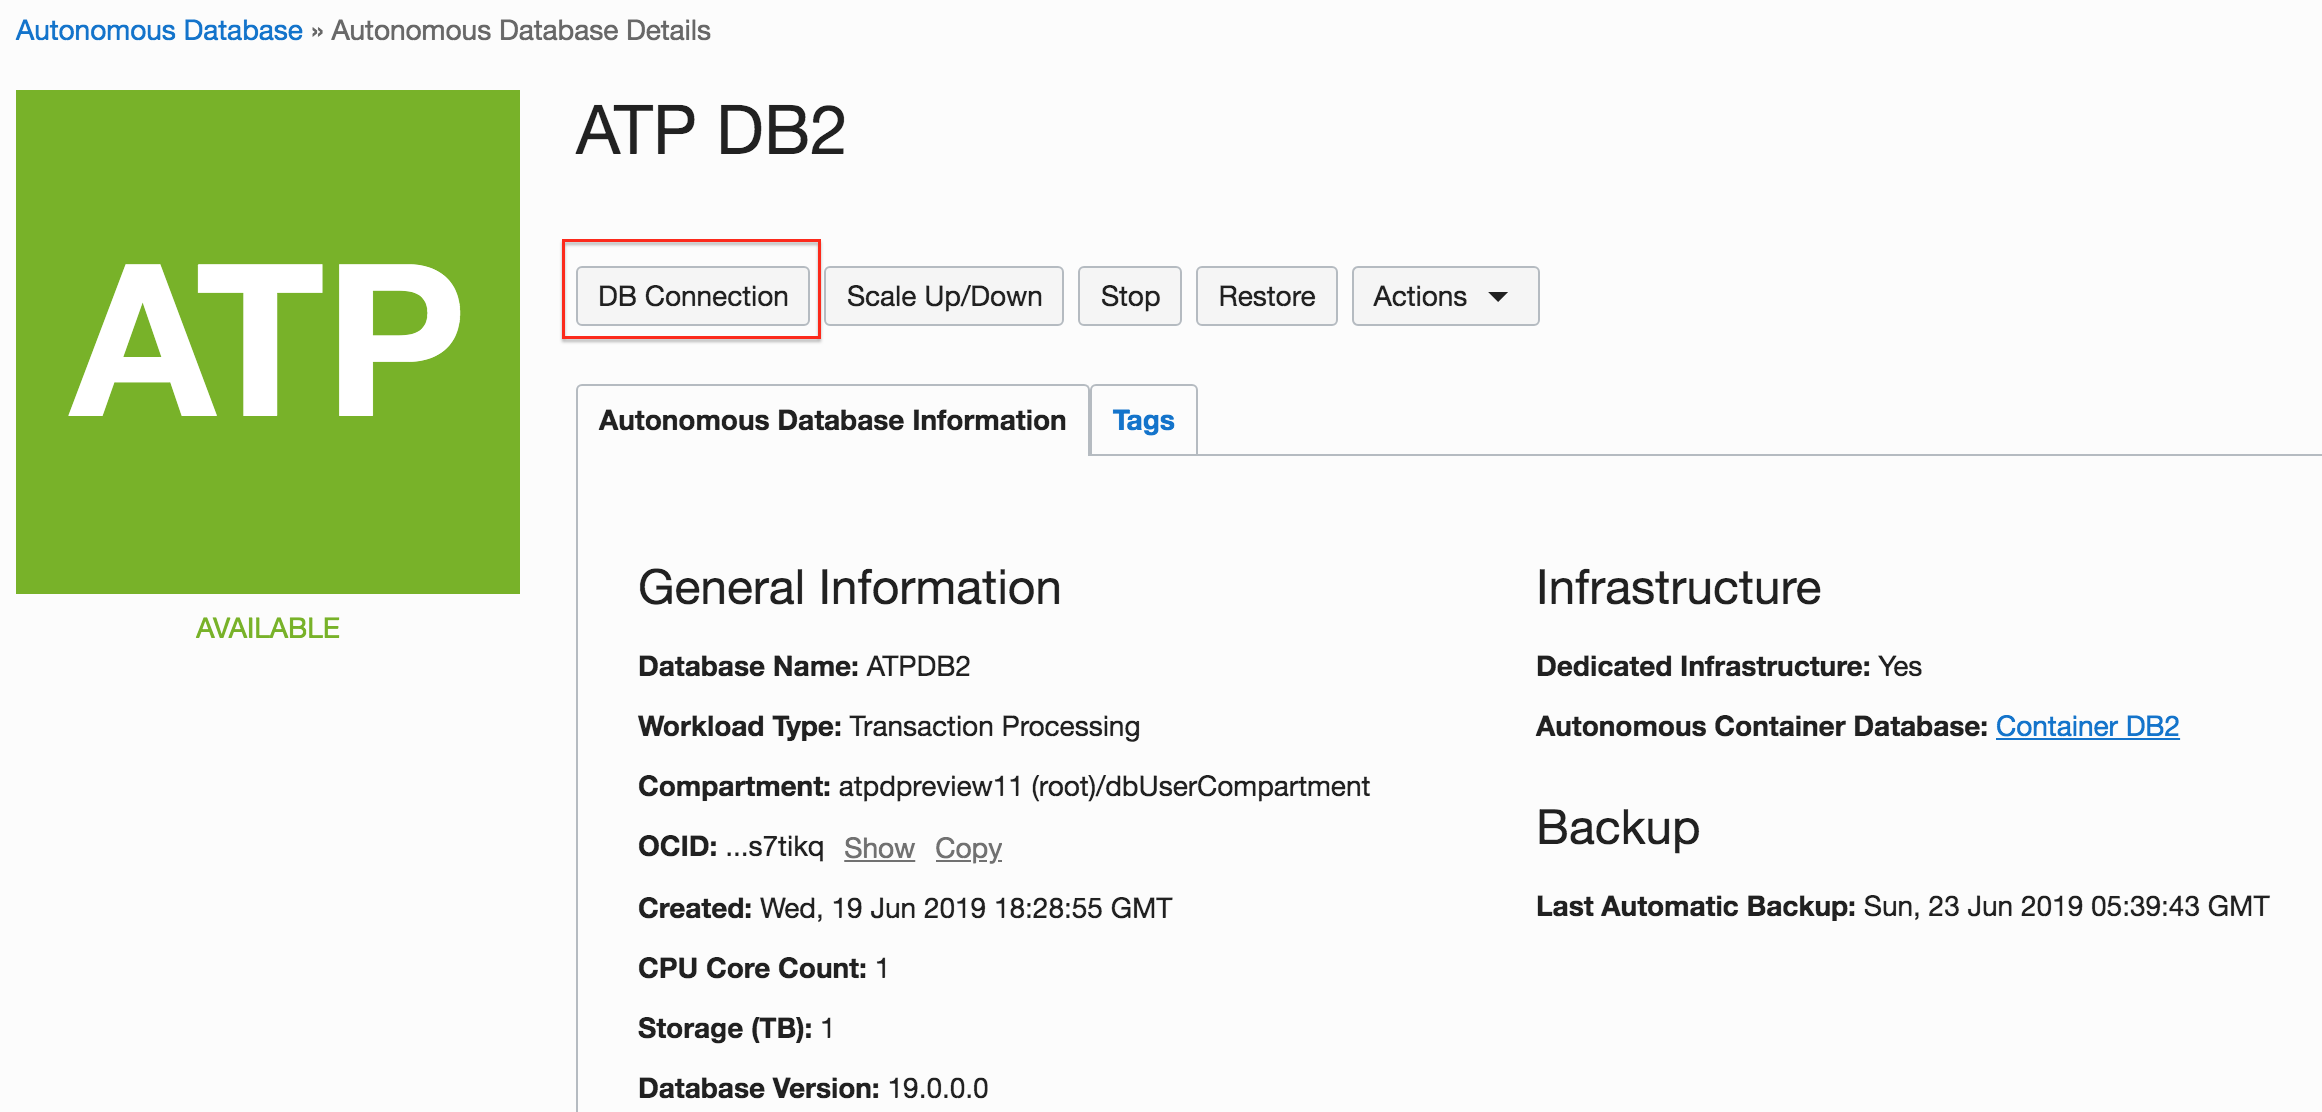
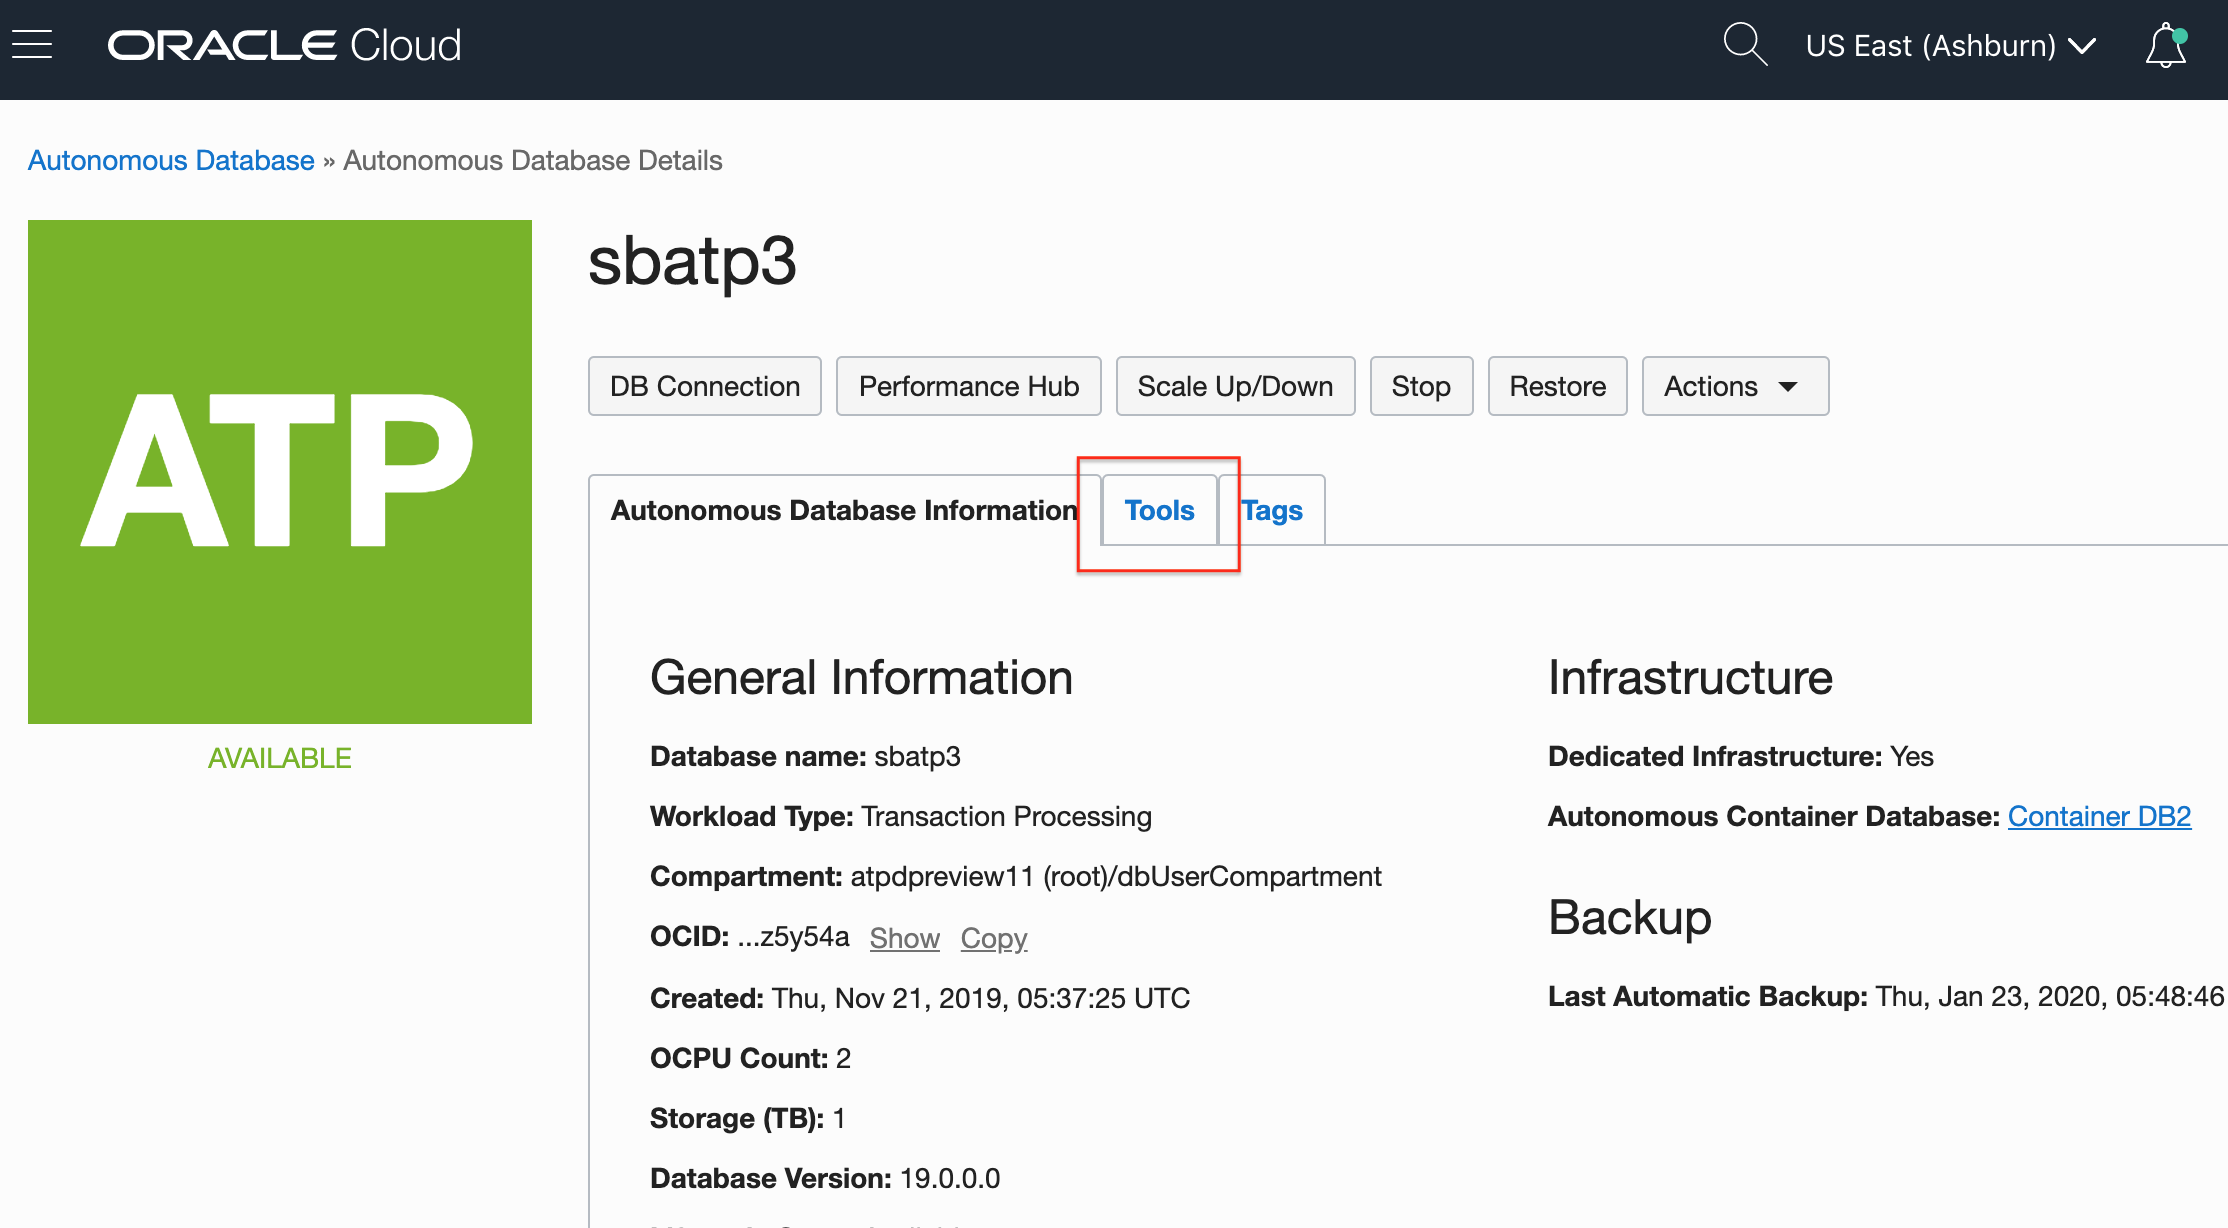
Updates

diff --git a/CNS_slack.md b/CNS_slack.md
@@ -20,7 +20,7 @@ To **log issues**, click [here](https://github.com/oracle/learning-library/issue
 As an database developer or adminstrator,
 - Learn how to set up autonomous database event topics
 - Subscribe to database events via email and SMS
-
+- Setup a Slack channel to receive ONS notifications
 
 
 ## Required Artifacts
@@ -80,14 +80,58 @@ Scroll down to select the Action type for this event and pick Notifications and 
 
 Thats it! To test your notification setup, create an autonomous database service instance as explained in Lab 4.
 
+### **Setup a Slack channel to receive event notificationss**
 
+Lets see how we can setup group notifications to a slack channel. First you would need to get a webhooks URL to your slack channel.
+
+Sign into your slack workspace. If you don't have done, you can get one for free for the purposes of this lab at https://slack.com
+
+![](./images/ONS/slack1.png)
+
+
+
+
+Once signed in, create a slack channel to receive ADB event notifications
+
+![](./images/ONS/slack_channel.png)
+
+Next, lets buid a slack app that can receive notifications from OCI using a webhooks URL and pass it on to the channel we created. Open https://api.slack.com/apps in your browser
+
+![](./images/ONS/slack_app.png)
+
+Provide a name and select a slack workspace. If you do not have one, click 'Sign into a different workspace' and scroll down to the bottom to access link to 'Create a new workspace'
+
+Once you click 'Create App', on the application information page, click on the 'Incoming Webhooks' tile and activate webhooks as shown below
+![](./images/ONS/webhooks1.png)
+![](./images/ONS/webhooks2.png)
+
+Once activated, scroll down and hit the 'Add New Webhook to Workspace' button
+![](./images/ONS/webhooks3.png)
+
+Next, pick a channel for the app to post to - 
+![](./images/ONS/webhooks4.png)
+
+Confirm, and scroll down to copy the Webhooks URL for your workspace. You will need to provide this in the OCI notification setup page. 
+
+![](./images/ONS/webhook_url.png)
+
+Copy the URL and navigate to the OCI Subscriptions page once again. On the 'Create Subscription' page, select 'Slack' as protocol, and paste the webhook URL for your slack workspace. Scroll down and hit 'Create'
+
+![](./images/ONS/webhook5.png)
+
+OCI Notification Service will then send a confirmation URL to your slack channel. Go back to slack and click the link to confirm your subscription.
+
+![](./images/ONS/webhook6.png)
+
+That is it! Try creating another ADB instance and receive notifications to this slack channel.
 
 <table>
 <tr><td class="td-logo">
 
 [![](images/obe_tag.png)](#)</td>
 <td class="td-banner">
-### Congratulations! You successfully learnt to create DB event subscriptions and setup notifications!
+### Congratulations! You successfully learnt to create DB event subscriptions and setup multi-channel notifications!
+
 
 
 

diff --git a/SQLDevWeb.md b/SQLDevWeb.md
@@ -39,11 +39,9 @@ Login to your Oracle Cloud Infrastructure account and navigate to the console pa
 
 ![access_db_console](./images/1000/access_db_console.png)
 
-Navigate to the database details page and click the 'DB Connection' button
+Navigate to the database details page and on the 'Tools' tab you will find the 'Open SQL Developer Web' button that would lead you to the SQL Developer Web access URL as shown below
 
-![db_connection](./images/1000/db_connection.png)
-
-On the 'Database Connection' details page, select the 'Application Connection' radio button and copy the Access URL for SQL Developer Web as shown below
+![db_connection](./images/1000/tools.png)
 
 
 ![sqldevweb_url](./images/1000/sqldevweb_url.png)

diff --git a/Apex.md b/Apex.md
@@ -49,10 +49,10 @@ To get the APEX URL for your ATP Dedicated instance,
 - Save the URL as we are going to need it later in this lab.
 
 ![](./images/1100/NavigateATP1.png)
-![](./images/1100/NavigateATP2.png)
-![](./images/1100/NavigateATP3.png)
-![](./images/1100/NavigateATP4.png)
-![](./images/1100/NavigateATP5.png)
+![](./images/1100/selectADB.png)
+![](./images/1100/tools.png)
+![](./images/1100/getApexURL.png)
+
 
 ### **STEP 2: Setup VNC connection to the developer client VM and access APEX on the database as an admin user**
 
